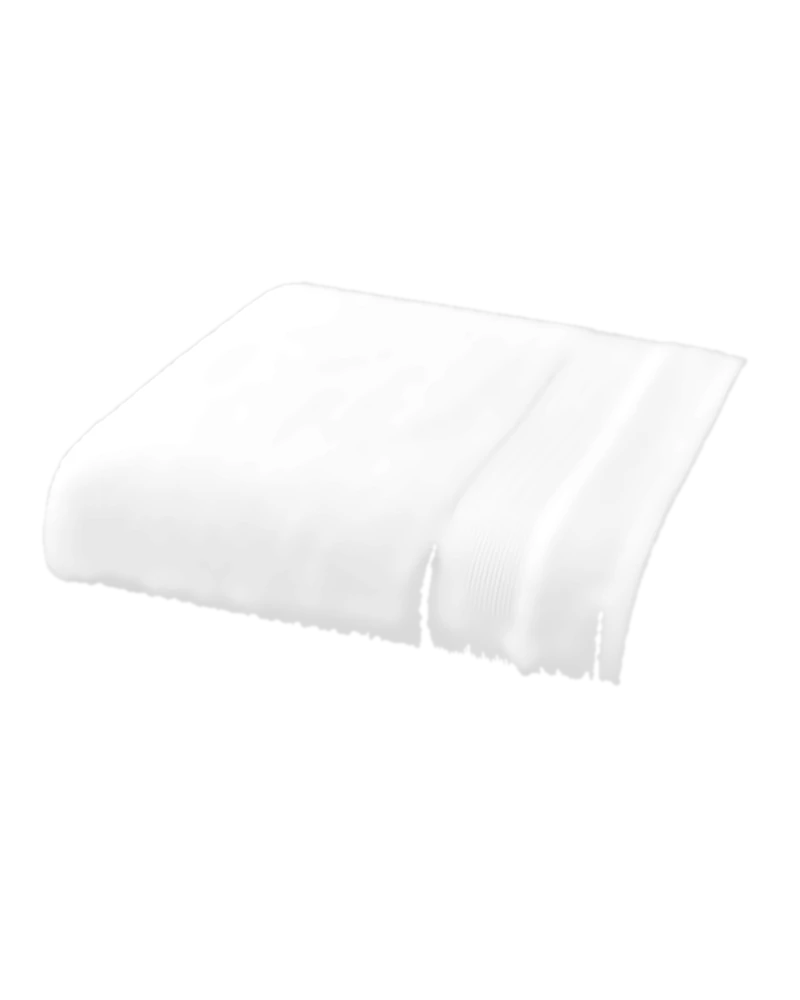
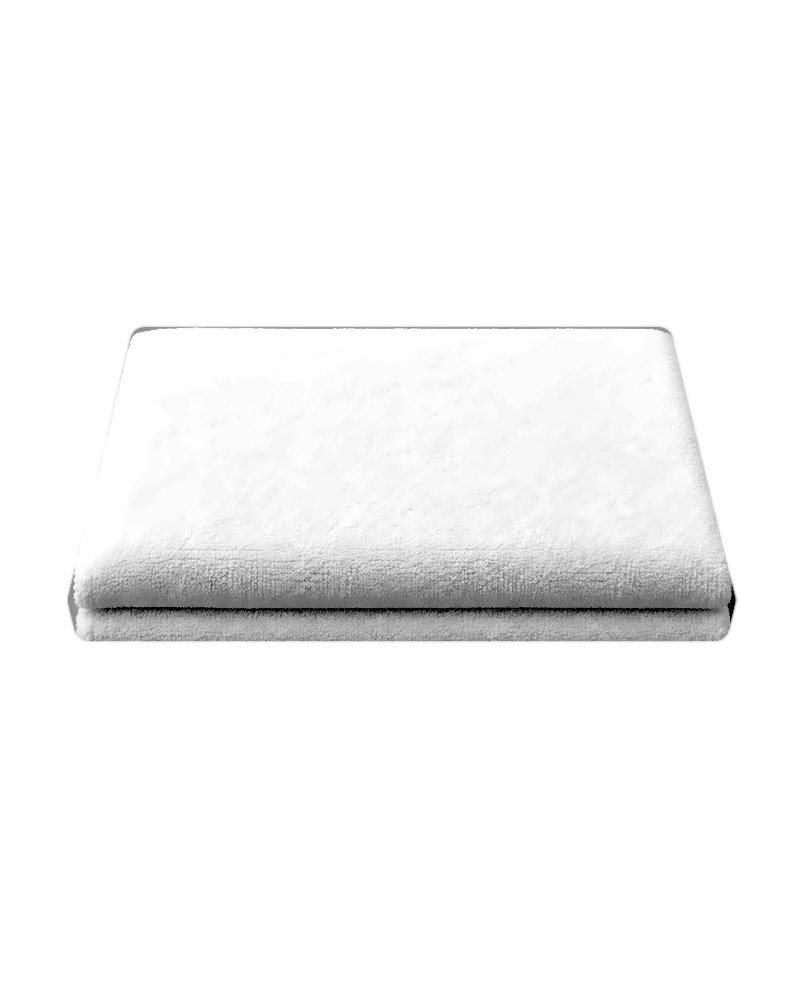
Visera y toalla con fotos nuevas de frente
Claude-Session: https://claude.ai/code/session_01FXrzkUYtJWLhL3WwSoqKpt

Changed region(s): [[0.0625, 0.372, 0.9375, 0.682], [0.8125, 0.31, 0.8438, 0.372], [0.1562, 0.31, 0.2188, 0.341]]

diff --git a/src/prendas/formas.ts b/src/prendas/formas.ts
@@ -783,6 +783,15 @@ export const FORMAS: Record<string, Forma> = {
   },
 
   visera: {
+    foto: {
+      archivo: "visera",
+      suelo: 345,
+      y: 0,
+      alto: 500,
+      logo: { x: 200, y: 200, w: 46 },
+      pecho: { x: 200, y: 200, w: 38 },
+      logoEspalda: { x: 200, y: 200, w: 40 },
+    },
     textura: "tejido",
     bajar: 40,
     frente: {
@@ -795,6 +804,15 @@ export const FORMAS: Record<string, Forma> = {
   },
 
   toalla: {
+    foto: {
+      archivo: "toalla",
+      suelo: 340,
+      y: 0,
+      alto: 500,
+      logo: { x: 200, y: 228, w: 62 },
+      pecho: { x: 200, y: 228, w: 62 },
+      logoEspalda: { x: 200, y: 228, w: 52 },
+    },
     textura: "rizo",
     frente: {
       cuerpo: "M70 180L330 180Q340 180 340 190L340 390Q340 402 328 402L72 402Q60 402 60 390L60 190Q60 180 70 180Z",
